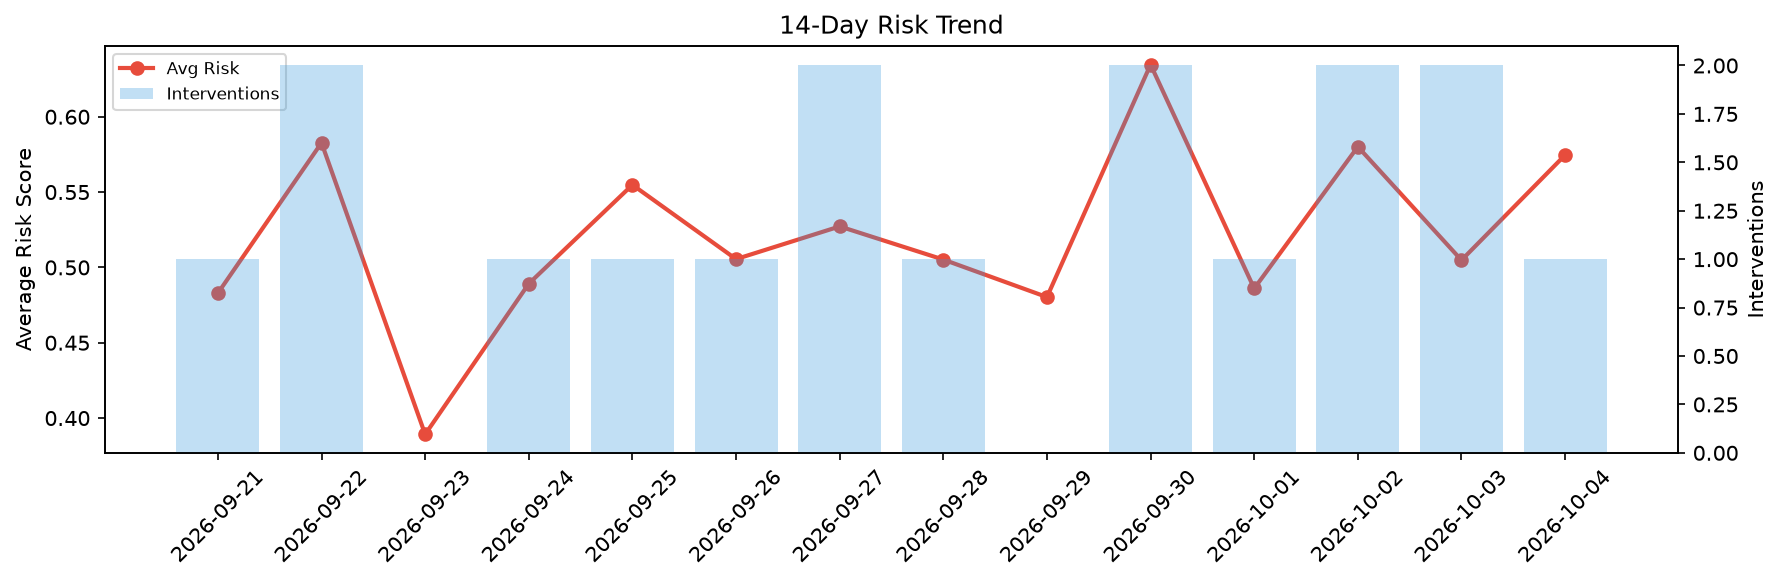
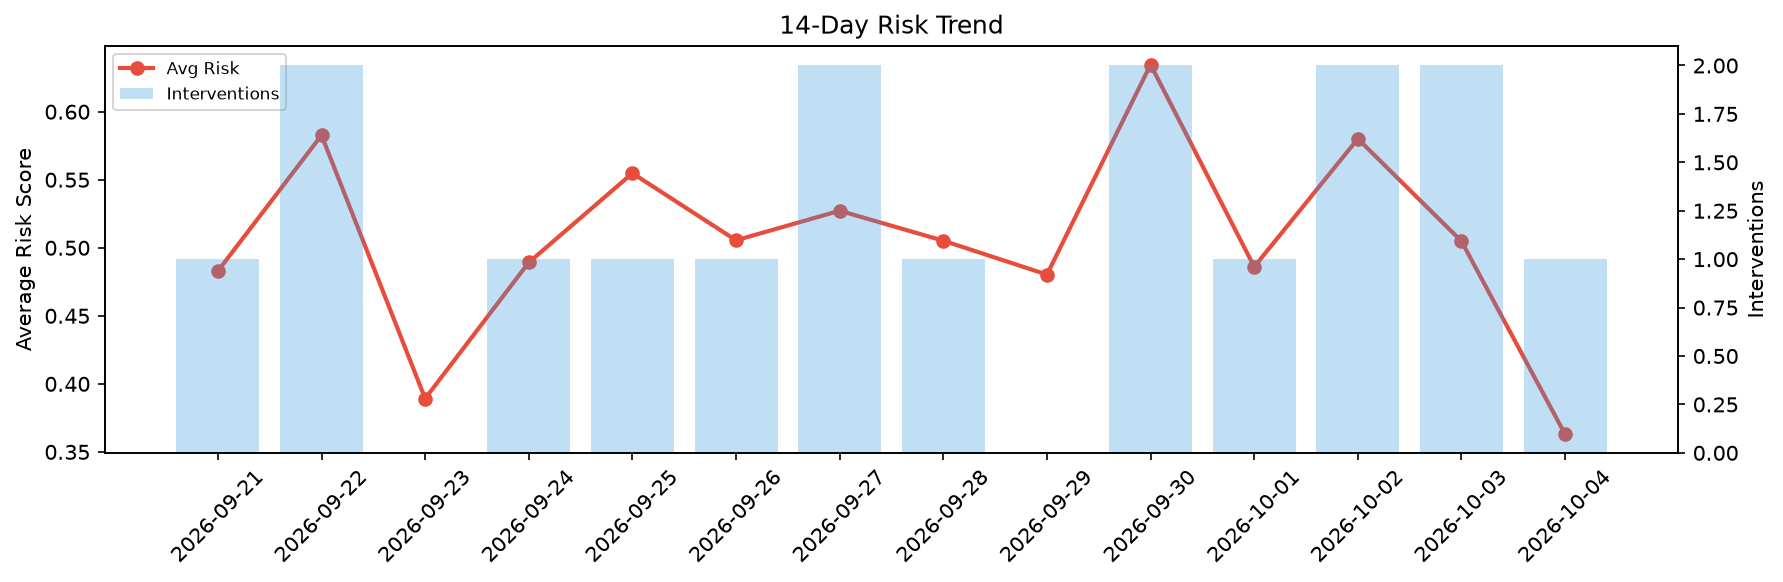
agent-improvement: daily cycle 2026-10-04T18:10

diff --git a/logs/2026-10-04.md b/logs/2026-10-04.md
@@ -1,6 +1,6 @@
 # Agent Improvement Report — 2026-10-04
 
-**Cycle ID:** `ea119b76` | **Avg Risk:** 0.5746 | **Interventions:** 1/4
+**Cycle ID:** `b8c06e94` | **Avg Risk:** 0.3629 | **Interventions:** 1/4
 
 ![Dashboard](2026-10-04_dashboard.png)
 
@@ -10,18 +10,18 @@
 
 | Domain | Risk Score | Decision | Alerts |
 |--------|-----------|----------|--------|
-| code_review | 0.4846 | monitor | none |
-| incident_response | 0.507 | monitor | none |
-| data_pipeline | 0.7671 | intervene | volume_anomaly |
-| deployment | 0.5396 | monitor | latency_p99 |
+| code_review | 0.1403 | monitor | none |
+| incident_response | 0.2262 | monitor | none |
+| data_pipeline | 0.6216 | intervene | freshness, volume_anomaly |
+| deployment | 0.4636 | monitor | none |
 
 ## Delta vs Yesterday
 
 | Domain | Today | Yesterday | Change |
 |--------|-------|-----------|--------|
-| code_review | 0.4846 | 0.6106 | 📉 -20.6% |
-| incident_response | 0.507 | 0.6095 | 📉 -16.8% |
-| data_pipeline | 0.7671 | 0.2502 | 📈 206.6% |
-| deployment | 0.5396 | 0.5489 | 📉 -1.7% |
+| code_review | 0.1403 | 0.6106 | 📉 -77.0% |
+| incident_response | 0.2262 | 0.6095 | 📉 -62.9% |
+| data_pipeline | 0.6216 | 0.2502 | 📈 148.4% |
+| deployment | 0.4636 | 0.5489 | 📉 -15.5% |
 
 **Refinement:** `{'adjustment': 'tighten_thresholds', 'trend': 'degrading', 'window': 4}`
